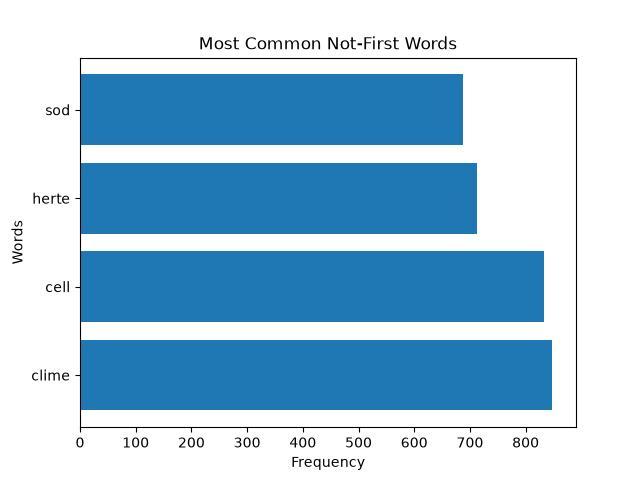
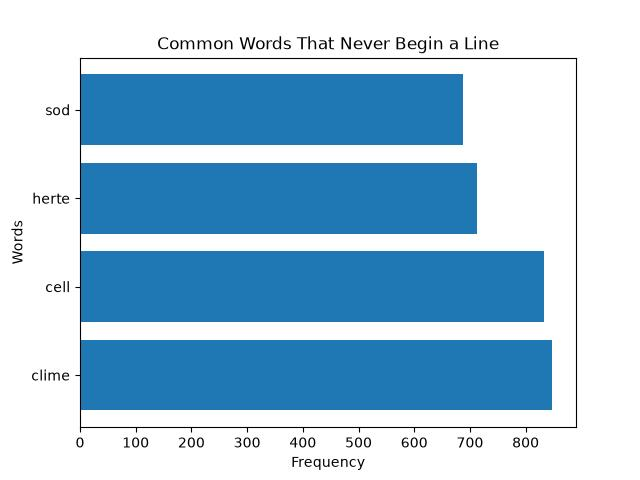
Plot 5

Changed region(s): [[0.25, 0.0625, 0.7812, 0.125]]

diff --git a/corpus.py b/corpus.py
@@ -10,6 +10,7 @@ path = "data/gutenberg-poetry-v001.ndjson.gz"
 corpus = gzip.open(path, "rt")
 numbers =[]
 longlines = []
+longlinebooks = []
 lastwords =[]
 firstwords = []
 allwords = []
@@ -18,6 +19,7 @@ allwords = []
 for row in corpus:
         d = json.loads(row)
         line = d["s"]
+        book = d["gid"]
         numbers.append(len(line))
 
         clean_words = []
@@ -33,10 +35,12 @@ for row in corpus:
 
         if len(line) >= 65:
              longlines.append(line)
+             longlinebooks.append(book)
 
 last_counts = Counter(lastwords)
 first_counts = Counter(firstwords)
 all_counts = Counter(allwords)
+book_counts = Counter(longlinebooks)
 
 topwords = []
 topwordscounts = []
@@ -44,12 +48,16 @@ for word, count in last_counts.most_common(20):
     topwords.append(word)
     topwordscounts.append(count)
 
+print(last_counts.most_common(20))
+
 
 topfirstwords = []
 topfirstwordscounts = []
 for word, count in first_counts.most_common(20):
     topfirstwords.append(word)
     topfirstwordscounts.append(count)
+
+#print(first_counts.most_common(20))
 
 
 neverfirst = []
@@ -59,7 +67,14 @@ for word, count in all_counts.most_common(3000):
     if word not in first_counts:
         neverfirst.append(word)
         neverfirstcounts.append(count)
-print(neverfirst, neverfirstcounts)
+#print(neverfirst, neverfirstcounts)
+
+
+toplonglinebooks = []
+toplonglinebookcounts = []
+for word, count in book_counts.most_common(20):
+    toplonglinebooks.append(word)
+    toplonglinebookcounts.append(count)
 
 
 plt.figure()
@@ -95,10 +110,20 @@ plt.close()
 output_dir4 = "plots/never_first_words.jpg"
 plt.figure()
 plt.barh(neverfirst, neverfirstcounts)
-plt.title("Most Common Not-First Words")
+plt.title("Common Words That Never Begin a Line")
 plt.xlabel("Frequency")
 plt.ylabel("Words")
 plt.savefig(output_dir4)
+#plt.show()
+plt.close()
+
+output_dir5 = "plots/long_line_books.jpg"
+plt.figure()
+plt.barh(toplonglinebooks, toplonglinebookcounts)
+plt.title("Books with Long Lines")
+plt.xlabel("Frequency")
+plt.ylabel("Book GIDs")
+plt.savefig(output_dir5)
 plt.show()
 plt.close()
 

diff --git a/commonplace.md b/commonplace.md
@@ -916,3 +916,49 @@ For the cut:
 Forced (red, fires, witches), feels melodramatic or too fantastic in a way that breaks the spell.
 
 https://poets.org/poem/ivy-green
+
+# 2026-10-13 · Safiya Sinclair, "Bluebeard"
+
+Steal: 
+touched my tongue to the rough
+of his tongue, slicked the dark
+underside of him
+
+Cut:
+Red witch roaming the scorched house
+of fires I have been, fires I have built,
+
+The why:
+
+For the steal:
+Very original, haven't ever imagined what a lion's tongue feels like, let alone imagined its underside. Takes a well-worn image (a lion's mouth) and makes it new
+
+For the cut:
+Forced (red, fires, witches), feels melodramatic or too fantastic in a way that breaks the spell.
+
+https://poets.org/poem/bluebeard
+
+
+# 2026-10-14 · Ama Codjoe, "Their Pasts"
+
+Steal: 
+a bouquet of tiger lilies, all but one closed tightly
+
+Cut:
+wants
+to slaughter the other team; is addicted to being
+on top
+
+The why:
+
+For the steal:
+Great mix of violence and love. Violence: tiger, the "all but one closed tightly" resembling a fist. Love, the lilies. The placement of "tightly" at the end of the clause also has a dramatic flair. 
+
+For the cut:
+Felt generic and kind of irrelevant. Both over-zealousness in sports fandom, and sexual positions.
+
+
+
+
+https://poets.org/poem/their-pasts
+

diff --git a/plots/NOTES.md b/plots/NOTES.md
@@ -1,2 +1,24 @@
 Plot 1: Line Lengths
-There is a bunch of long lines at the end. They seem to be prose summaries.
+There is a bunch of long lines. They seem to be prose summaries.
+It matters because it's a poetry analysis and there's prose in there -- but no way to identify which is poetry and which is prose.
+
+Rule decisions:
+
+'Day' and 'day' should count as the same word. Make it all lower case.
+
+Store the whole sentence if it includes a last word that is one of the top 20 last words.
+
+Let's filter the prose words (words in sentences 65+ length)
+
+
+
+Plot 2:
+Important learning is understanding how in a loop, unless you append the result, it gets written over.
+
+
+Plot 4:
+When working with lists, extend can help you separate words so it's not lists of lists, which can't be hashed or split.
+The code worked but there were no results because the constraints were too narrow - try to predict ahead of time.
+
+Plot 5:
+GID Id 2199 is the Iliad -- that's the book with the highest count of long lines (65+). Pretty cool
